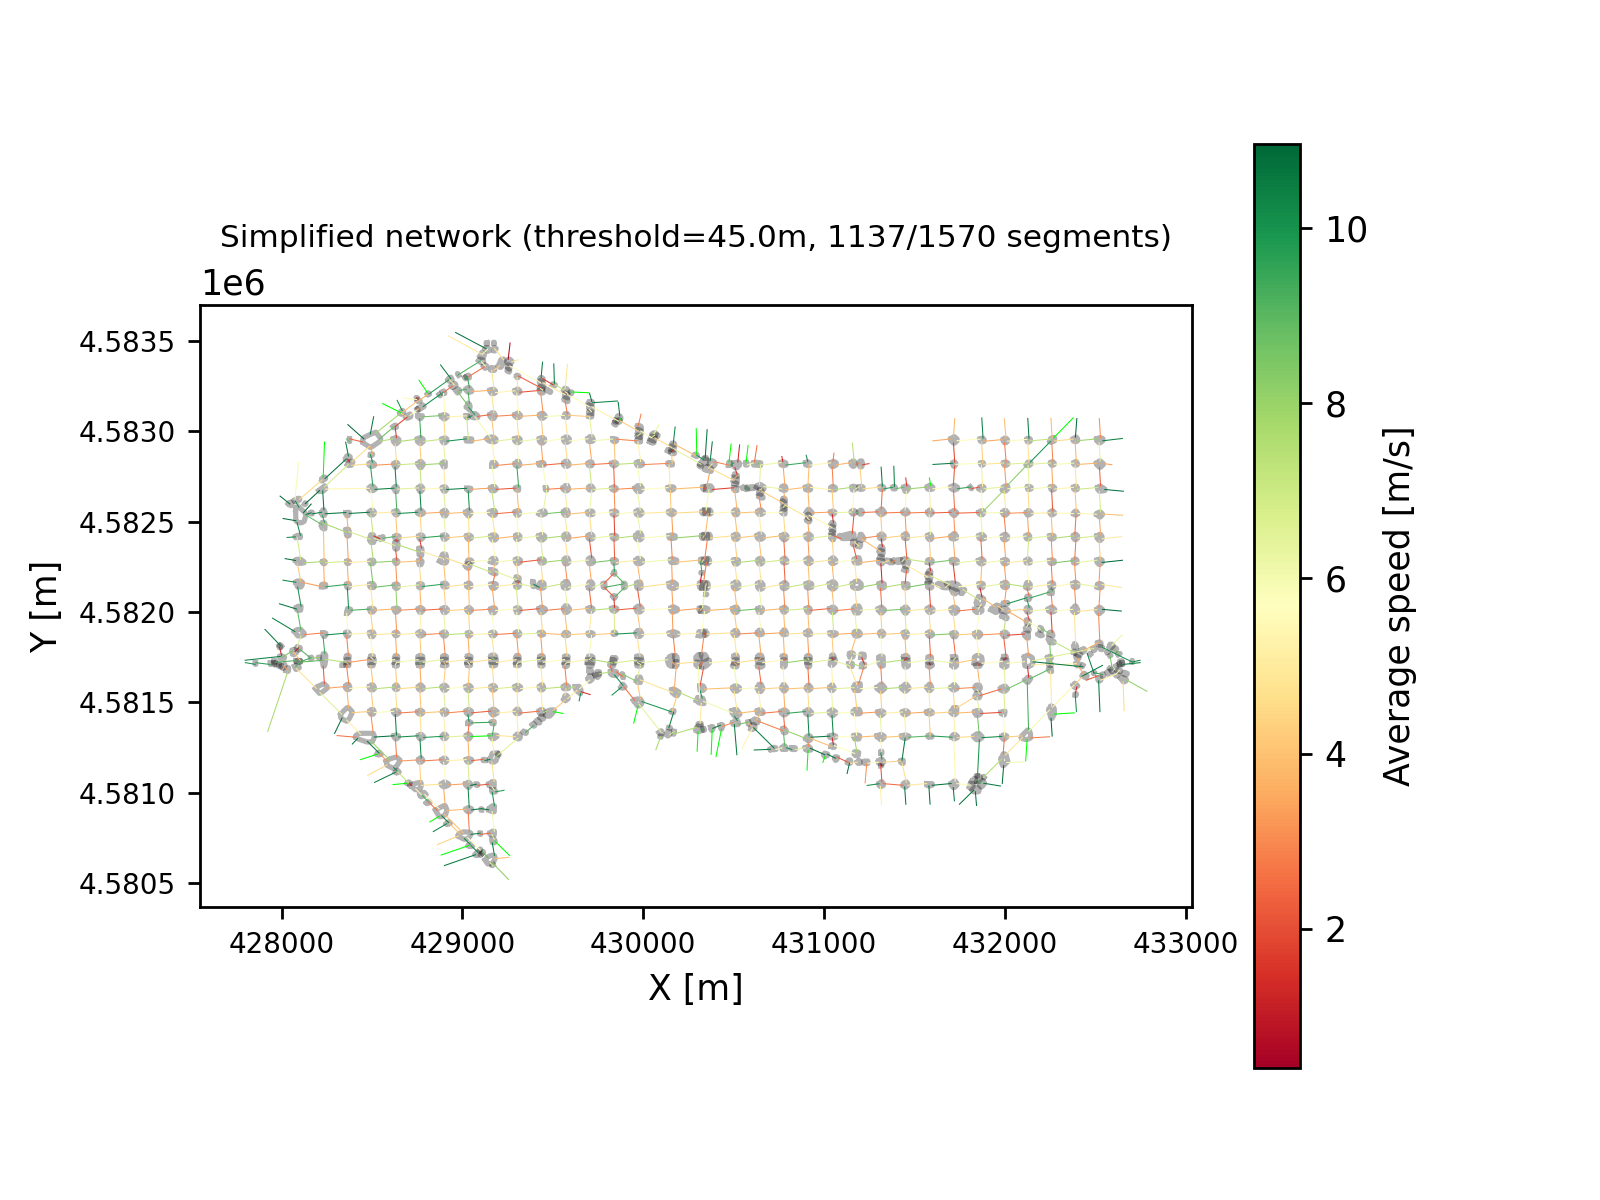
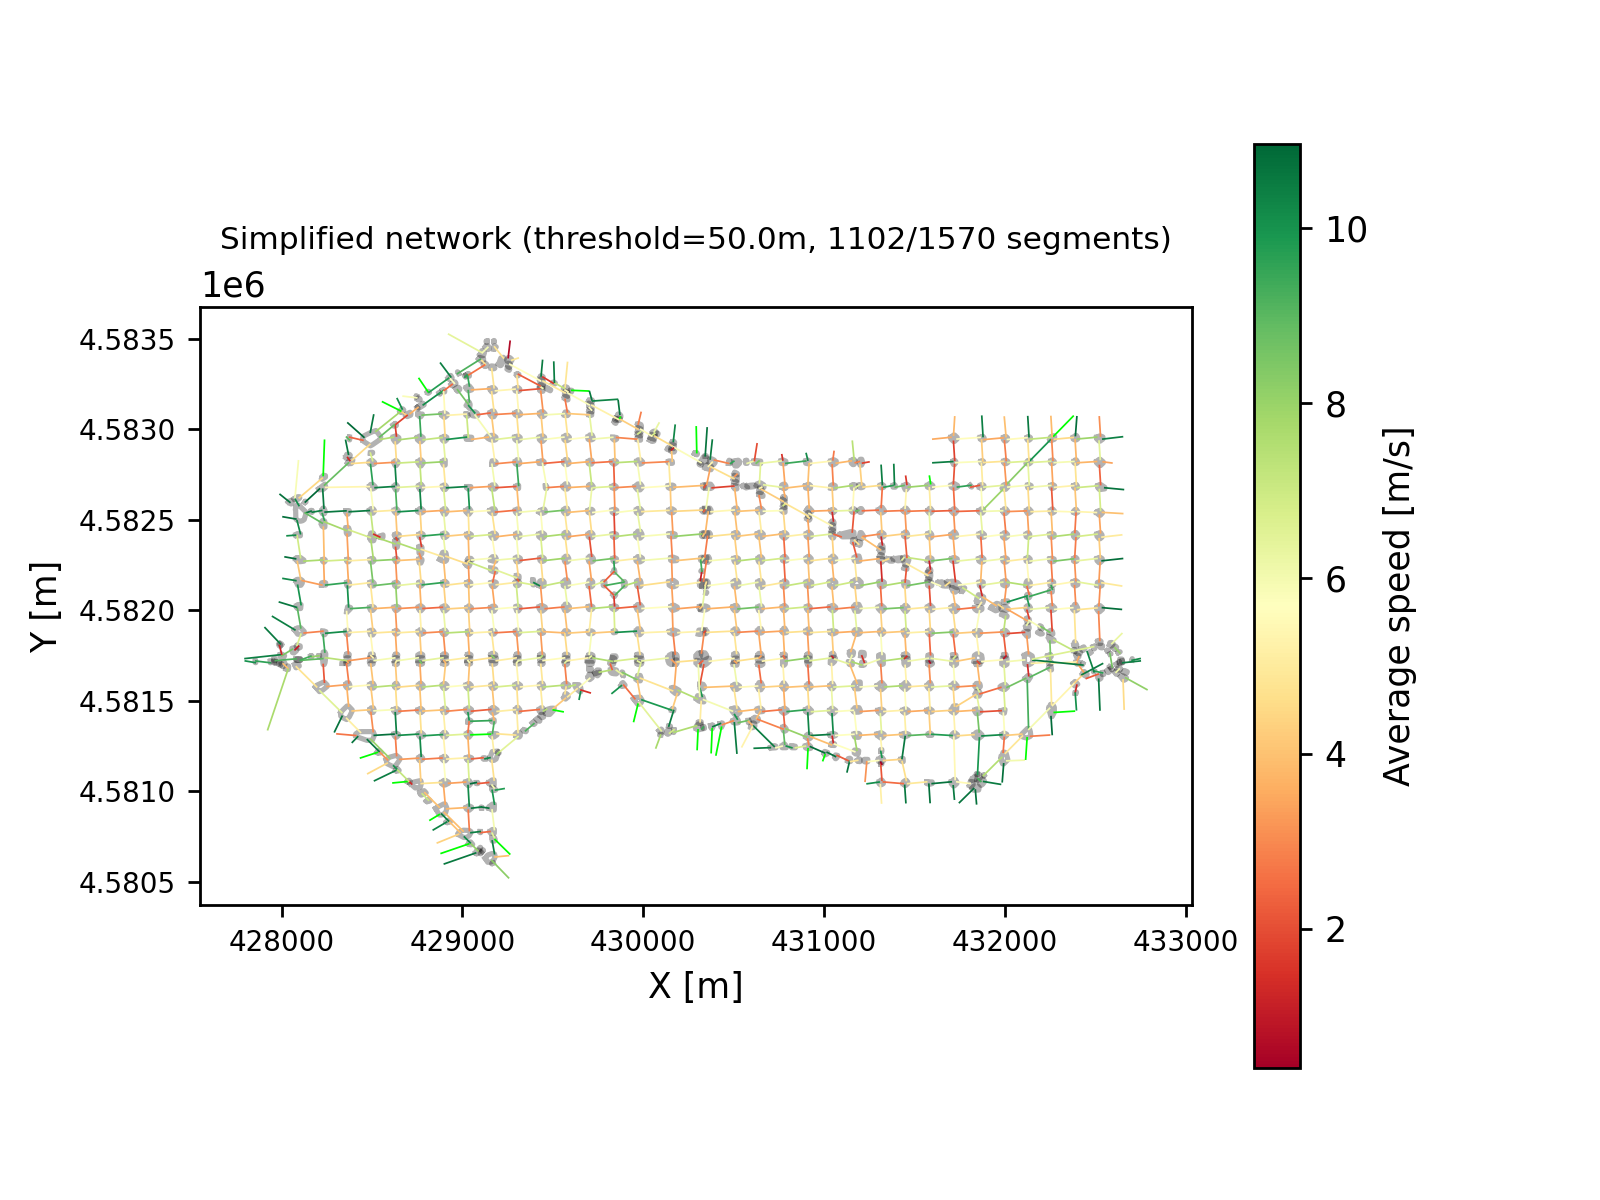
perpendicular distance segments to segments

diff --git a/main.py b/main.py
@@ -890,12 +890,20 @@ class UnionFind:
             self.rank[rx] += 1
 
 
-def group_segments(distance_threshold=35.0):
+def group_segments(distance_threshold=35.0, lateral_threshold=15.0):
     """
-    Groups road segments whose endpoints are within distance_threshold [m] of each other.
-    Handles both same-direction and opposite-direction segments on the same road.
+    Groups road segments that represent the same road.
 
-    Returns a list of groups, where each group is a list of link indices.
+    Three matching criteria (any one is sufficient):
+    1. Forward match: both endpoint pairs within distance_threshold
+    2. Reverse match: endpoints cross-match (opposite direction)
+    3. Lateral match: midpoint-to-midpoint distance within lateral_threshold
+       (handles segments of different lengths on the same road)
+
+    Parameters
+    ----------
+    distance_threshold : float - endpoint proximity threshold [m]
+    lateral_threshold : float - max distance between midpoints [m]
     """
     N = len(links)
     from_xy = links[["from_x", "from_y"]].to_numpy()
@@ -904,12 +912,12 @@ def group_segments(distance_threshold=35.0):
     from_tree = cKDTree(from_xy)
     to_tree = cKDTree(to_xy)
 
-    # Forward match: from_i ~ from_j AND to_i ~ to_j
+    # --- 1. Forward match: from_i ~ from_j AND to_i ~ to_j ---
     from_from_pairs = from_tree.query_pairs(distance_threshold)
     to_to_pairs = to_tree.query_pairs(distance_threshold)
     forward_matches = from_from_pairs & to_to_pairs
 
-    # Reverse match: from_i ~ to_j AND to_i ~ from_j (opposite direction)
+    # --- 2. Reverse match: from_i ~ to_j AND to_i ~ from_j ---
     from_to_neighbors = from_tree.query_ball_tree(to_tree, distance_threshold)
     to_from_neighbors = to_tree.query_ball_tree(from_tree, distance_threshold)
 
@@ -920,7 +928,12 @@ def group_segments(distance_threshold=35.0):
             if i != j:
                 reverse_matches.add((min(i, j), max(i, j)))
 
-    all_matches = forward_matches | reverse_matches
+    # --- 3. Lateral match: midpoints within lateral_threshold ---
+    mid_xy = (from_xy + to_xy) / 2.0
+    center_tree = cKDTree(mid_xy)
+    lateral_matches = center_tree.query_pairs(lateral_threshold)
+
+    all_matches = forward_matches | reverse_matches | lateral_matches
 
     uf = UnionFind(N)
     for i, j in all_matches:
@@ -989,7 +1002,7 @@ def simplified_map(distance_threshold, grad=True, color="navy"):
                 c = "lime"
             else:
                 c = cmap(norm(speeds[k]))
-            ax.plot(x, y, c=c, linewidth=0.3)
+            ax.plot(x, y, c=c, linewidth=0.5)
 
         sm = cm.ScalarMappable(norm=norm, cmap=cmap)
         sm.set_array([])
@@ -1353,8 +1366,9 @@ th = thresholds(max_speed=2, max_length=np.inf)
 # # kmeans_clustering(n_clus, "kmeans_time_clusters",     "time")
 
 ### Simplified map
-# simplified_map(distance_threshold=45.0, grad=True)
-# simplified_map(distance_threshold=45.0, grad=False, color="navy")
+simplified_map(distance_threshold=50.0, grad=True)
+simplified_map(distance_threshold=50.0, grad=False, color="navy")
+
 
 ### Percolation analysis
 #percolation_analysis()
@@ -1362,10 +1376,11 @@ th = thresholds(max_speed=2, max_length=np.inf)
 
 
 ##################### CLUSTERS SPAWN POINTS/AMOUNT #####################
+'''
 cluster_amount = list(range(2,8,1))
 
 for i in cluster_amount:
     kmeans_clustering(i, "kmeans_speed_clusters", "speed", threshold=th)
     
-... # Do for one timeframe
+... # Do for one timeframe'''
 
